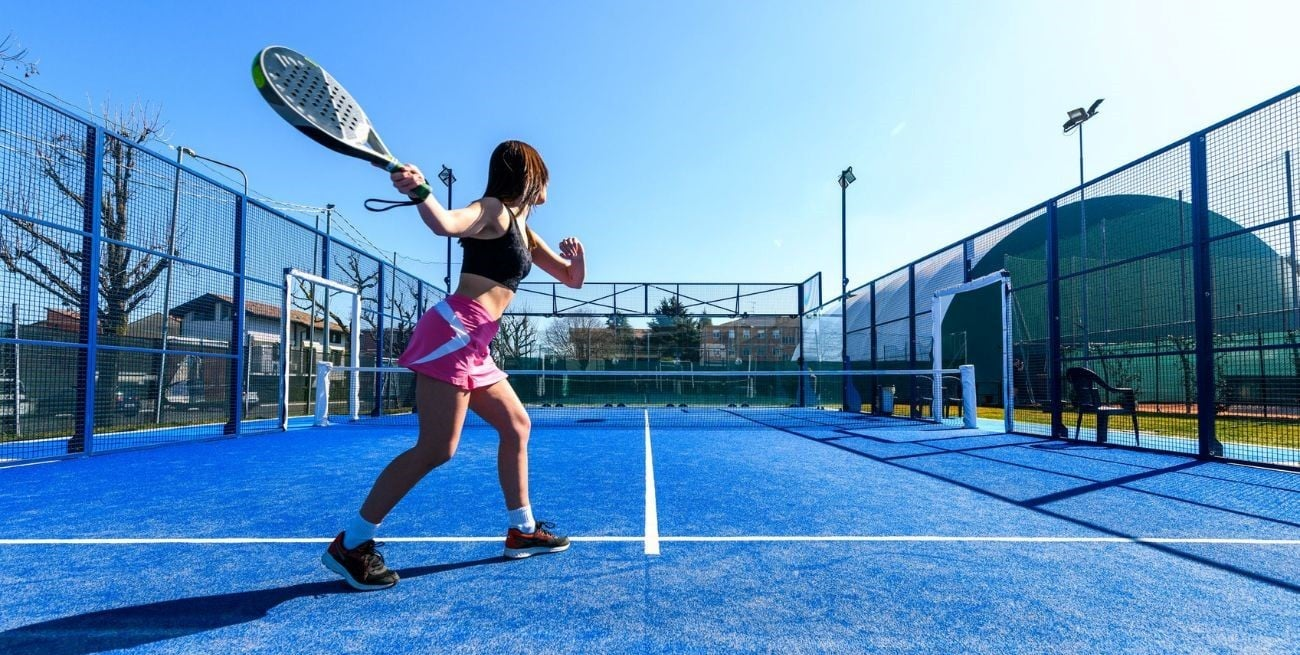
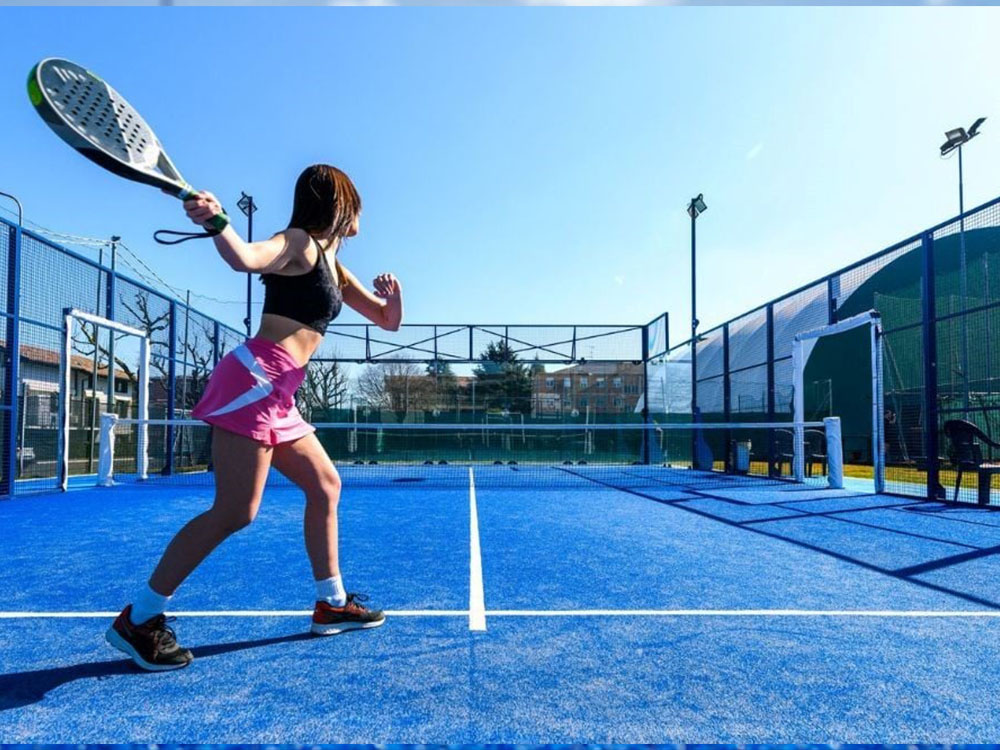
resposive del slaider del home, e incio del funcionamiento del nav del header en vercion movil

diff --git a/index.html b/index.html
@@ -4,11 +4,11 @@
   <meta charset="UTF-8">
   <meta name="viewport" content="width=device-width, initial-scale=1.0">
   <link rel="stylesheet" href="styles/index.css">
-  <link rel="stylesheet" media="(max-width: 320px)" href="styles/responsive/max-width-320.css">
+  <!-- <link rel="stylesheet" media="(max-width: 320px)" href="styles/responsive/max-width-320.css"> -->
   <link rel="stylesheet" media="(max-width: 450px)" href="styles/responsive/max-width-450.css">
   <link rel="stylesheet" media="(max-width: 580px)" href="styles/responsive/max-width-580.css">
   <link rel="stylesheet" media="(max-width: 770px)" href="styles/responsive/max-width-770.css">
-  <link rel="stylesheet" media="(max-width: 950px)" href="styles/responsive/max-width-950.css">
+  <link rel="stylesheet" media="(max-width: 950px)" href="./styles/responsive/max-width-950.css">
   <link rel="shortcut icon" href="assets/favicon.png" type="image/x-icon">
 
   <link rel="stylesheet" media= href="style.css">
@@ -28,13 +28,14 @@
       <!-- <h1>APDA</h1> -->
     </section>
     <nav id="nav">
-      <i class="fa-solid fa-bars"></i>
-      <ul>
+      <i class="fa-solid fa-bars hamburger"></i>
+      <ul class="header-nav ">
+        <i class="fa-solid fa-xmark close"></i>
         <li><a href="./index.html">Home</a></li>
-        <li><a href="./reservas.html">Reseras</a></li>
-        <li><a href="./torneos.html">Torneos</a></li>
-        <li><a href="./nosotros.html">Nosotros</a></li>
-        <li><a href="./contacto.html">Contacto</a></li>
+        <li><a href="./pages/reservas.html">Reseras</a></li>
+        <li><a href="./pages/torneos.html">Torneos</a></li>
+        <li><a href="./pages/nosotros.html">Nosotros</a></li>
+        <li><a href="./pages/contacto.html">Contacto</a></li>
       </ul>
     </nav>
     <section id="user" title="Iniciar Sesión">
@@ -55,13 +56,22 @@
           </ol>
           <div class="carousel-inner">
             <div class="carousel-item active">
-              <img class="d-block w-100" src="./assets/slider1.jpg" alt="First slide">
+              <picture>
+                <source class="d-block w-100" srcset="./assets/slider-vertical-1.png" media="(orientation: portrait)" alt="First slide">
+                <img class="d-block w-100" src="./assets/slider1.jpg" alt="First slide">
+              </picture>
             </div>
             <div class="carousel-item">
-              <img class="d-block w-100" src="./assets/slider2.jpg" alt="Second slide">
+              <picture>
+                <source class="d-block w-100" srcset="./assets/slider-vertical-3.png" media="(orientation: portrait)" alt="First slide">
+                <img class="d-block w-100" src="./assets/slider2.jpg" alt="Second slide">
+              </picture>
             </div>
             <div class="carousel-item">
-              <img class="d-block w-100" src="./assets/slider3.jpg" alt="Third slide">
+              <picture>
+                <source class="d-block w-100" srcset="./assets/slider-vertical-2.png" media="(orientation: portrait)" alt="First slide">
+                <img class="d-block w-100" src="./assets/slider3.jpg" alt="Third slide">
+              </picture>
             </div>
           </div>
           <a class="carousel-control-prev" href="#carouselExampleIndicators" role="button" data-slide="prev">
@@ -95,10 +105,10 @@
               </ul>
             </article>
             <figure>
-              <img src="./assets/slider3.jpg" alt="">
-              <img src="./assets/slider1.jpg" alt="">
-              <img src="./assets/slider2.jpg" alt="">
-              <img src="./assets/slider3.jpg" alt="">
+              <img src="./assets/club-1.jpg" alt="">
+              <img src="./assets/club-2.jpg" alt="">
+              <img src="./assets/club-3.jpg" alt="">
+              <img src="./assets/club-4.jpg" alt="">
             </figure>
           </div>
         </section>
@@ -121,9 +131,6 @@
           <iframe src="https://www.google.com/maps/embed?pb=!1m14!1m8!1m3!1d6576.81910437065!2d-58.55101!3d-34.4925!3m2!1i1024!2i768!4f13.1!3m3!1m2!1s0x95bcb07689dfc16b%3A0xd99c91a74c6232d5!2sObispo%20Terrero%203380%2C%20B1642FXL%20San%20Isidro%2C%20Provincia%20de%20Buenos%20Aires!5e0!3m2!1ses-419!2sar!4v1712320958869!5m2!1ses-419!2sar" width="600" height="450" style="border:0;" allowfullscreen="" loading="lazy" referrerpolicy="no-referrer-when-downgrade"></iframe>
         </section>
   </main>
-  <!-- <aside>
-    <p>Lorem ipsum dolor sit amet consectetur adipisicing elit. Facilis rerum nostrum nobis repellat porro illum incidunt, expedita minima perferendis facere, nihil quia dolore assumenda non explicabo accusantium consequatur ex totam.</p>
-  </aside> -->
   <footer class="footer">
     <div class="logo-foother">
       <figure>
@@ -179,5 +186,6 @@
   <script src="https://code.jquery.com/jquery-3.2.1.slim.min.js" integrity="sha384-KJ3o2DKtIkvYIK3UENzmM7KCkRr/rE9/Qpg6aAZGJwFDMVNA/GpGFF93hXpG5KkN" crossorigin="anonymous"></script>
   <script src="https://cdn.jsdelivr.net/npm/popper.js@1.12.9/dist/umd/popper.min.js" integrity="sha384-ApNbgh9B+Y1QKtv3Rn7W3mgPxhU9K/ScQsAP7hUibX39j7fakFPskvXusvfa0b4Q" crossorigin="anonymous"></script>
   <script src="https://cdn.jsdelivr.net/npm/bootstrap@4.0.0/dist/js/bootstrap.min.js" integrity="sha384-JZR6Spejh4U02d8jOt6vLEHfe/JQGiRRSQQxSfFWpi1MquVdAyjUar5+76PVCmYl" crossorigin="anonymous"></script>
-</body>
+  <script src="app.js"></script>
+</body> 
 </html>

diff --git a/styles/responsive/max-width-580.css b/styles/responsive/max-width-580.css
@@ -1,4 +1,9 @@
-
+body{
+  position: relative;
+}
+.header-visible{
+  overflow-x: visible;
+}
 #nav{
   width: 40px;
 }
@@ -14,6 +19,41 @@
 }
 #user{
   order: 3;
+}
+
+.header #nav .visible{
+  display: block;
+  position: absolute;
+  top: 20px;
+  left: 20px;
+  right: 20px;
+  height: 80vh;
+  background-color: var(--primary-color);
+}
+#nav .visible .close{
+  display: block;
+  width: 30px;
+  height: 30px;
+  background-color: var(--secundary-color);
+  font-size: 25px;
+  padding: 5px;
+  border-radius: 50%;
+  position: relative;
+  top: -100px;
+  right: 20px;
+  /* display: flex;
+  justify-self: center;
+  align-content: center;
+  align-items: center; */
+}
+.header #nav .visible li{
+  width: max-content;
+  margin: 10px auto;
+}
+
+#nav ul li a:hover{
+  color: var(--secundary-color);
+  text-shadow: none;
 }
 .nosotros > div{
   width: 100%;

diff --git a/app.js b/app.js
@@ -1,0 +1,14 @@
+const hamburger = document.querySelector('.hamburger');
+const nav = document.querySelector('.header-nav');
+const header = document.querySelector('.header');
+const close = document.querySelector('.close');
+
+hamburger.addEventListener('click', ()=>{
+  nav.classList.toggle('visible');
+  header.classList.toggle('header-visible');
+  console.log(nav)
+})
+close.addEventListener('click', ()=>{
+  nav.classList.toggle('visible');
+  header.classList.toggle('header-visible');
+})

diff --git a/styles/header&Footer.css b/styles/header&Footer.css
@@ -43,6 +43,9 @@
   justify-content: center;
   list-style: none;
 }
+#nav .close{
+  display: none;
+}
 #nav{
   width: 50%;
   align-items: center;
@@ -167,5 +170,6 @@
   border: none;
 }
 .footer input[type=submit]{
-  background-color: var(--primary-color);
+  font-weight: 600;
+  background-color: var(--secundary-color);
 }

diff --git a/styles/index.css b/styles/index.css
@@ -33,7 +33,6 @@ p, a, li, span{
   background-repeat: no-repeat;
   background-size: cover;
   background-position: right;
-  position: relative;
 }
 .nosotros::before{
   content: '';
